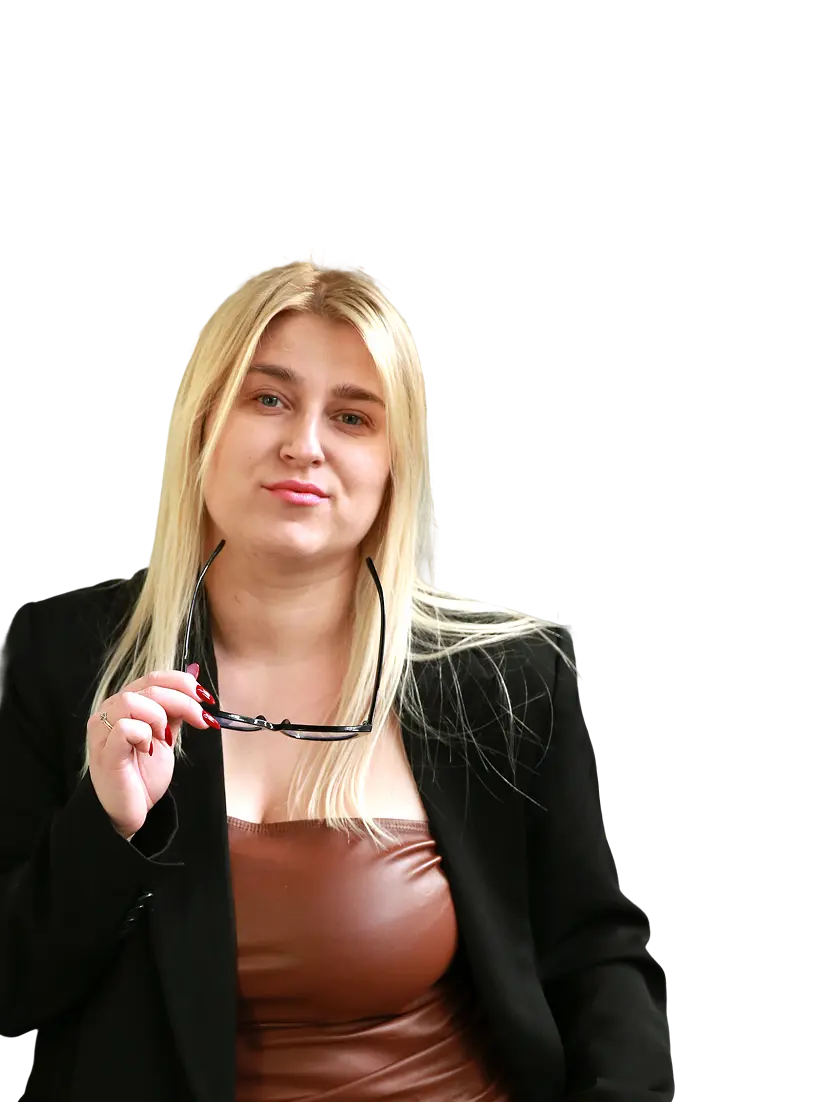
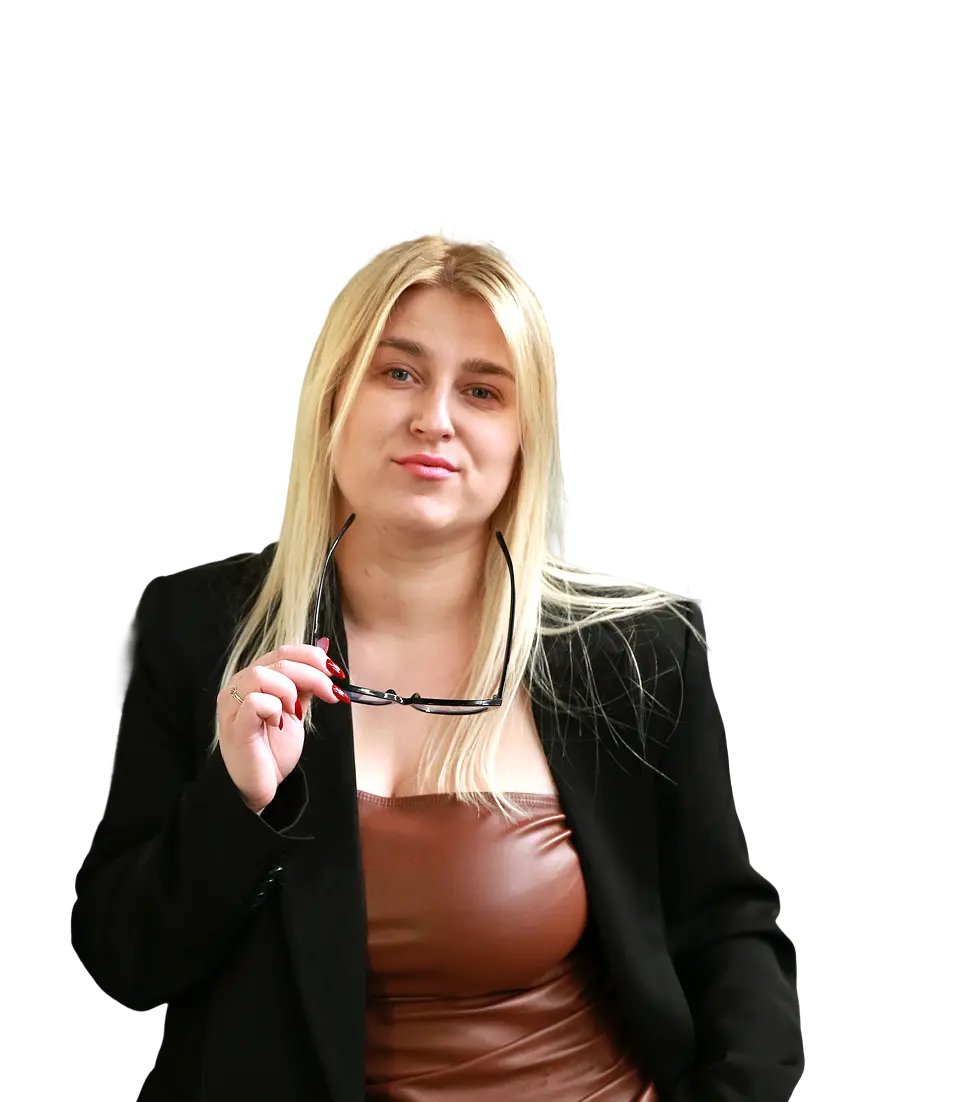
Update team images and layout/styling
Replace and add various mission/team image assets (desktop, laptop, tab, mob, multiple resolutions) and rename some old variants. Adjust responsive layout and positioning for the OurTeamSection: update tablet slide grouping, reposition social links, stats badges, team cards, desktop card content and team name positions across breakpoints, tweak z-indexes and paddings for correct stacking. Also remove the Tatyana team entry from teamCards data.

diff --git a/src/components/Buttons/SocialLink/SocialLink.styled.ts b/src/components/Buttons/SocialLink/SocialLink.styled.ts
@@ -64,8 +64,8 @@ export const CustomSocialLink = styled.a`
 
   @media (min-width: 768px) {
     &.team-card-social.social-irina {
-      top: 125px;
-      right: -10px;
+      top: 30px;
+      right: 230px;
     }
 
     &.team-card-social.social-tatyana {
@@ -75,12 +75,12 @@ export const CustomSocialLink = styled.a`
 
     &.team-card-social.social-maria {
       top: 50px;
-      left: 200px;
+      left: 260px;
     }
 
     &.team-card-social.social-anastasia {
-      top: 25px;
-      left: 240px;
+      top: 30px;
+      left: 430px;
     }
 
     &.team-card-social.social-daria {
@@ -92,7 +92,8 @@ export const CustomSocialLink = styled.a`
   @media (min-width: 1024px) {
     &.team-card-social.social-irina {
       top: 120px;
-      right: -40px;
+      right: -20px;
+      z-index: 2;
     }
 
     &.team-card-social.social-tatyana {
@@ -100,19 +101,19 @@ export const CustomSocialLink = styled.a`
       left: -40px;
     }
 
-    &.team-card-social.social-maria {
-      top: 50px;
-      left: 25px;
+    &.team-card-social.social-anastasia {
+      top: 180px;
+      left: -40px;
     }
 
-    &.team-card-social.social-anastasia {
-      top: 30px;
-      left: 0;
+    &.team-card-social.social-maria {
+      top: 170px;
+      left: 80px;
     }
 
     &.team-card-social.social-daria {
-      top: -40px;
-      right: 175px;
+      top: 80px;
+      right: 90px;
     }
   }
 

diff --git a/src/components/HomePage/OurTeamSection/StatsBadge/StatsBadge.styled.ts b/src/components/HomePage/OurTeamSection/StatsBadge/StatsBadge.styled.ts
@@ -58,8 +58,8 @@ export const StatsWrap = styled.div`
     }
 
     &.maria {
-      bottom: 125px;
-      left: 25px;
+      bottom: 95px;
+      left: 100px;
       z-index: 2;
 
       span {
@@ -68,7 +68,7 @@ export const StatsWrap = styled.div`
     }
 
     &.anastasia {
-      left: 280px;
+      left: 470px;
       bottom: 65px;
       z-index: 2;
     }
@@ -77,7 +77,7 @@ export const StatsWrap = styled.div`
       z-index: 2;
       max-width: 240px;
       bottom: 125px;
-      right: 0px;
+      right: 115px;
       left: auto;
     }
   }
@@ -100,8 +100,8 @@ export const StatsWrap = styled.div`
     }
 
     &.maria {
-      bottom: 90px;
-      left: 15px;
+      bottom: 130px;
+      left: 235px;
       z-index: 2;
 
       span {
@@ -110,8 +110,8 @@ export const StatsWrap = styled.div`
     }
 
     &.anastasia {
-      left: 360px;
-      bottom: 125px;
+      left: 740px;
+      bottom: 90px;
       z-index: 2;
     }
 
@@ -119,7 +119,7 @@ export const StatsWrap = styled.div`
       z-index: 2;
       max-width: 240px;
       bottom: 90px;
-      right: 90px;
+      right: 220px;
       left: auto;
     }
   }

diff --git a/src/components/HomePage/OurTeamSection/TeamName/TeamName.styled.ts b/src/components/HomePage/OurTeamSection/TeamName/TeamName.styled.ts
@@ -54,23 +54,23 @@ export const NameCont = styled.div`
 
   @media (min-width: 768px) {
     &.team-irina {
-      top: 120px;
-      left: 290px;
+      top: 30px;
+      right: 230px;
     }
 
     &.team-tatyana {
-      left: 8px;
+      left: 18px;
       top: 145px;
     }
 
     &.team-maria {
       top: 50px;
-      left: 65px;
+      left: 130px;
     }
 
     &.team-anastasia {
       top: 30px;
-      left: 105px;
+      left: 300px;
     }
 
     &.team-daria {
@@ -87,7 +87,8 @@ export const NameCont = styled.div`
 
     &.team-irina {
       top: 120px;
-      left: 425px;
+      left: 410px;
+      right: unset;
 
       &::before {
         right: unset;
@@ -101,18 +102,18 @@ export const NameCont = styled.div`
     }
 
     &.team-maria {
-      top: 50px;
-      left: 65px;
+      top: 170px;
+      left: 130px;
     }
 
     &.team-anastasia {
-      top: 30px;
-      left: 45px;
+      top: 175px;
+      left: 10px;
     }
 
     &.team-daria {
-      left: 295px;
-      top: -40px;
+      left: 390px;
+      top: 80px;
     }
   }
 

diff --git a/src/components/HomePage/OurTeamSection/TeamCards/TeamCards.styled.ts b/src/components/HomePage/OurTeamSection/TeamCards/TeamCards.styled.ts
@@ -12,24 +12,30 @@ export const CardCont = styled.div`
 
     &.card-anastasia {
       position: absolute;
-      bottom: 0;
-      right: 105px;
+      bottom: 30px;
+      right: -30px;
       z-index: 1;
     }
 
     &.card-daria {
       position: absolute;
       bottom: 0;
-      right: 0;
+      right: 105px;
     }
 
     &.card-maria {
       position: relative;
       z-index: 2;
+      padding-left: 60px;
     }
   }
 
   @media (min-width: 1024px) {
+    &.card-maria {
+      padding-left: 190px;
+      margin-bottom: 30px;
+    }
+
     &.card-irina {
       padding-left: 85px;
     }
@@ -42,9 +48,15 @@ export const CardCont = styled.div`
 
     &.card-anastasia {
       position: absolute;
-      bottom: 0;
-      right: 255px;
-      z-index: 1;
+      bottom: 15px;
+      right: 35px;
+      z-index: 0;
+    }
+
+    &.card-daria {
+      position: absolute;
+      bottom: 30px;
+      right: 130px;
     }
   }
 `;

diff --git a/src/components/HomePage/OurTeamSection/TeamDesktop/TeamDesktop.styled.ts b/src/components/HomePage/OurTeamSection/TeamDesktop/TeamDesktop.styled.ts
@@ -38,7 +38,7 @@ export const TeamCardContent = styled.div`
 
   &.card-content-irina {
     top: 110px;
-    left: 900px;
+    left: 700px;
   }
 
   &.card-content-tatyana {
@@ -47,17 +47,17 @@ export const TeamCardContent = styled.div`
   }
 
   &.card-content-maria {
-    top: 160px;
-    right: 430px;
+    top: 150px;
+    right: 555px;
   }
 
   &.card-content-anastasia {
-    top: 140px;
-    left: 500px;
+    top: 160px;
+    left: 165px;
   }
 
   &.card-content-daria {
     top: 190px;
-    right: 100px;
+    right: 170px;
   }
 `;

diff --git a/src/lib/data/home.page.ts b/src/lib/data/home.page.ts
@@ -114,20 +114,6 @@ export const teamCards = [
     },
   },
   {
-    id: "tatyana",
-    name: "Tatyana",
-    role: "Chief Human Resources Officer",
-    imgBase: "tatyana-human-resourses",
-    stats: [{ value: "15+", labelKey: "teamStats.specialists" }],
-    link: {
-      id: "linkedin",
-      href: "https://www.linkedin.com/in/tatyana-ryazantseva-freedom/",
-      labelKey: "socials.linkedin",
-      width: "13px",
-      height: "11px",
-    },
-  },
-  {
     id: "maria",
     name: "Maria",
     role: "Сhief Customer Officer",

diff --git a/src/components/HomePage/OurTeamSection/OurTeamSection.tsx b/src/components/HomePage/OurTeamSection/OurTeamSection.tsx
@@ -19,8 +19,8 @@ const OurTeamSection = () => {
   const isTablet = useMediaQuery("(min-width: 768px)");
 
   const tabletSlides = [
-    [teamCards[0], teamCards[2]].filter(Boolean), // 1 + 3
-    [teamCards[3], teamCards[1], teamCards[4]].filter(Boolean), // 2 + 4 + 5
+    [teamCards[0], teamCards[1]].filter(Boolean), // 1 + 3
+    [teamCards[2], teamCards[3]].filter(Boolean), // 2 + 4 + 5
   ].filter((g) => g.length);
 
   const slides = isTablet ? tabletSlides : teamCards.map((card) => [card]);
